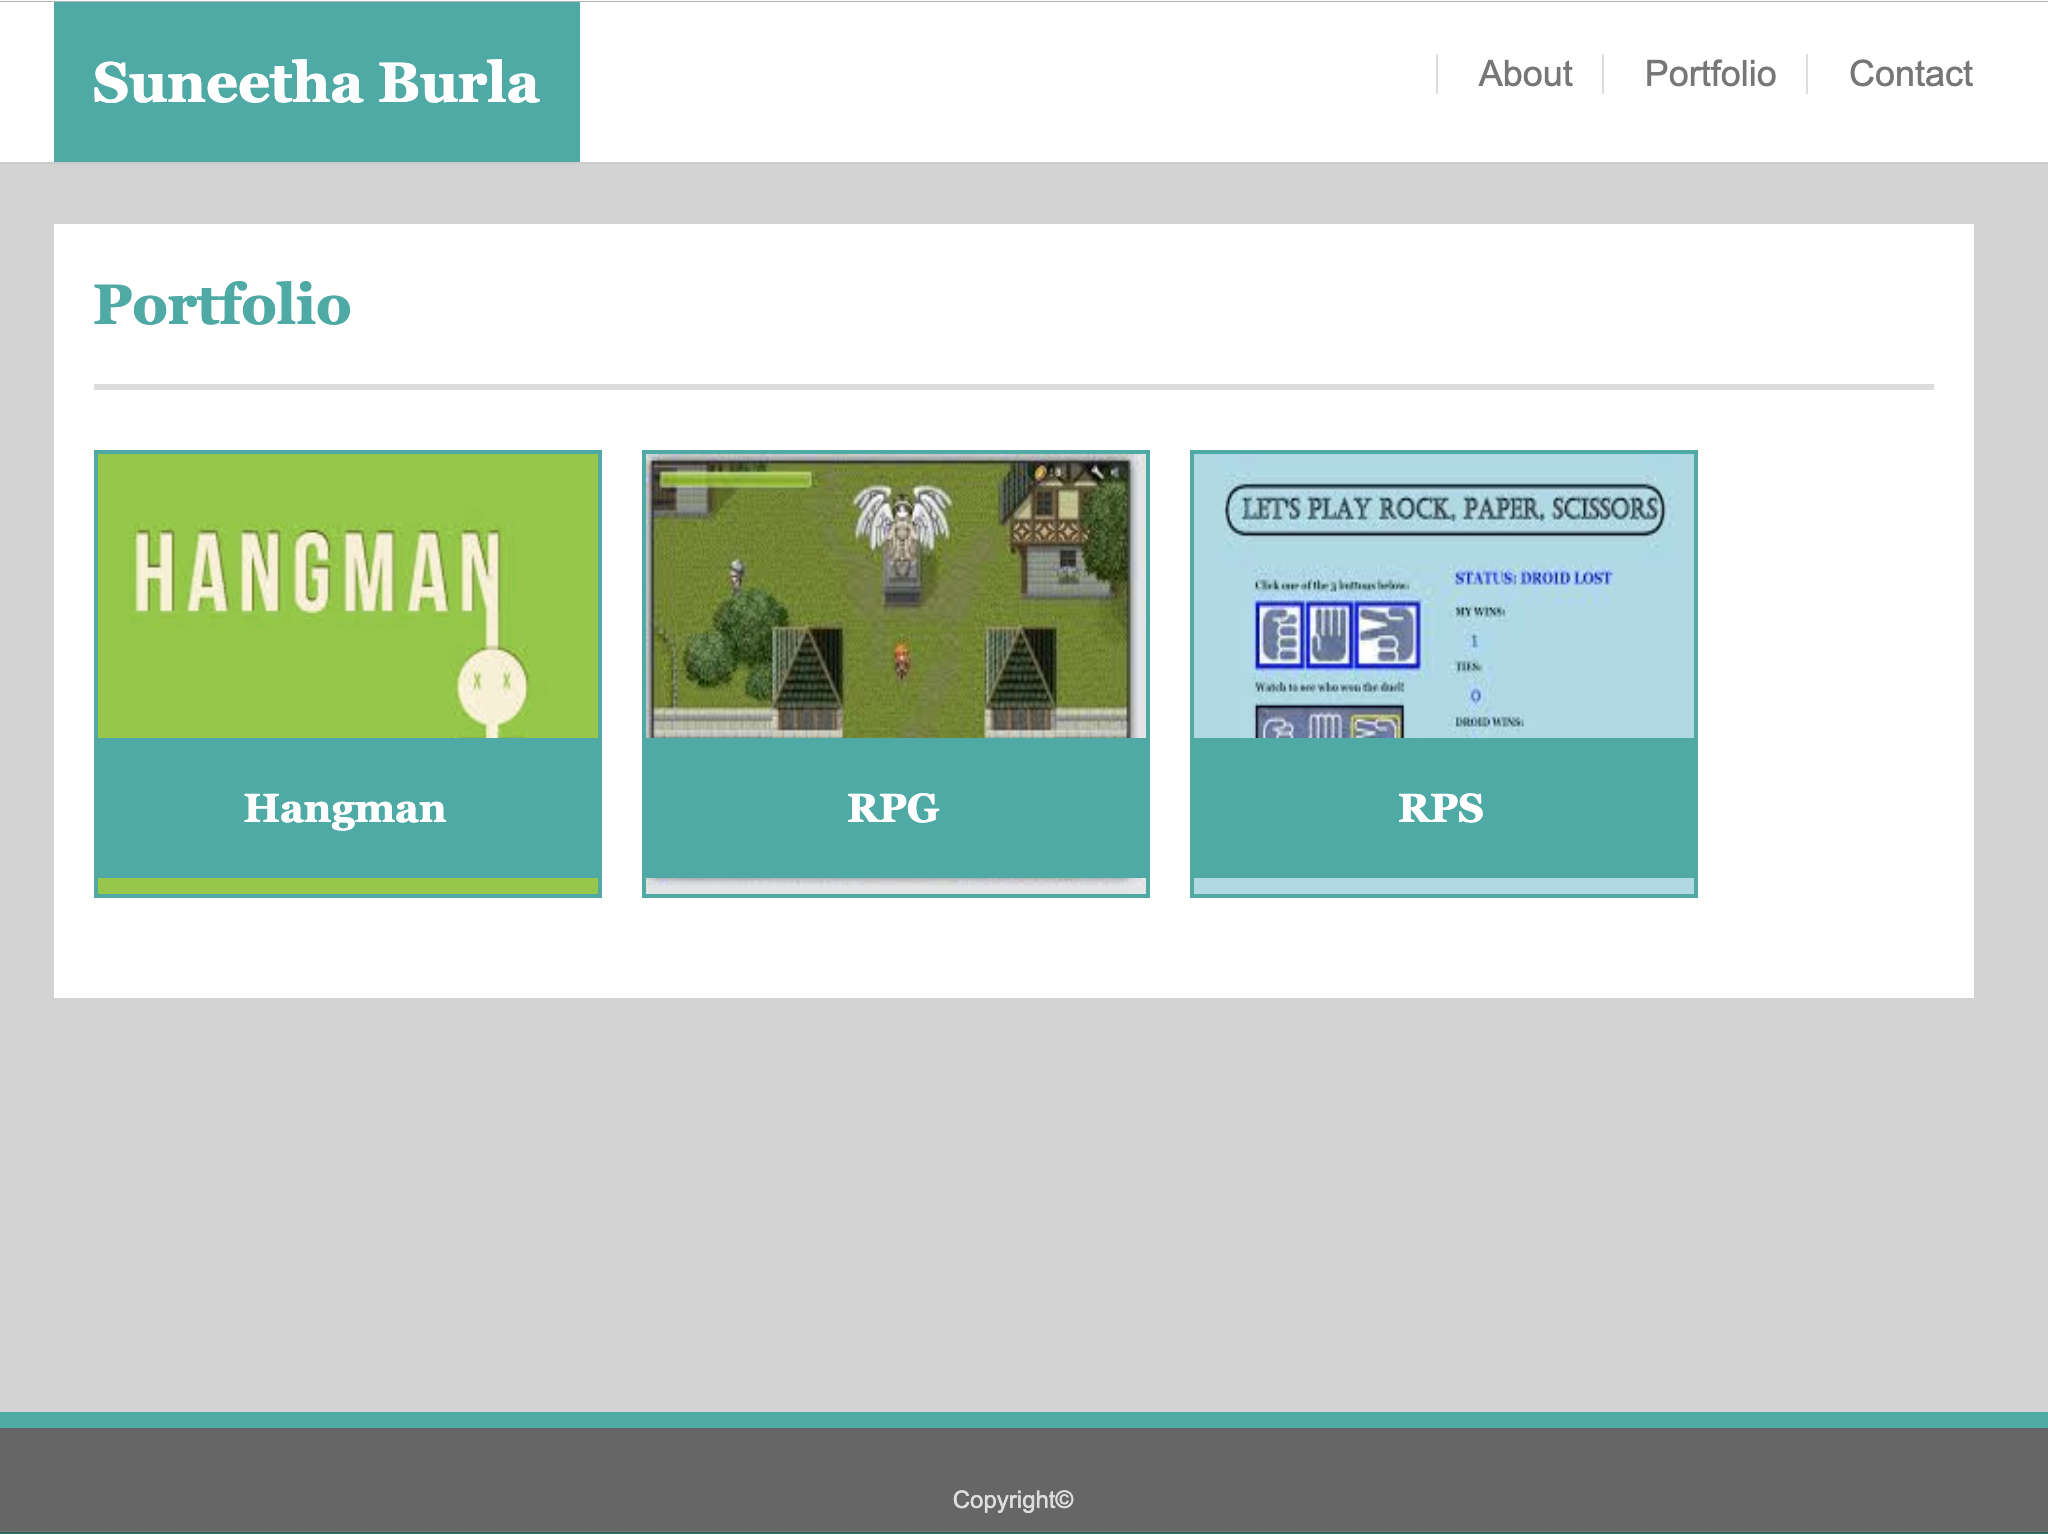
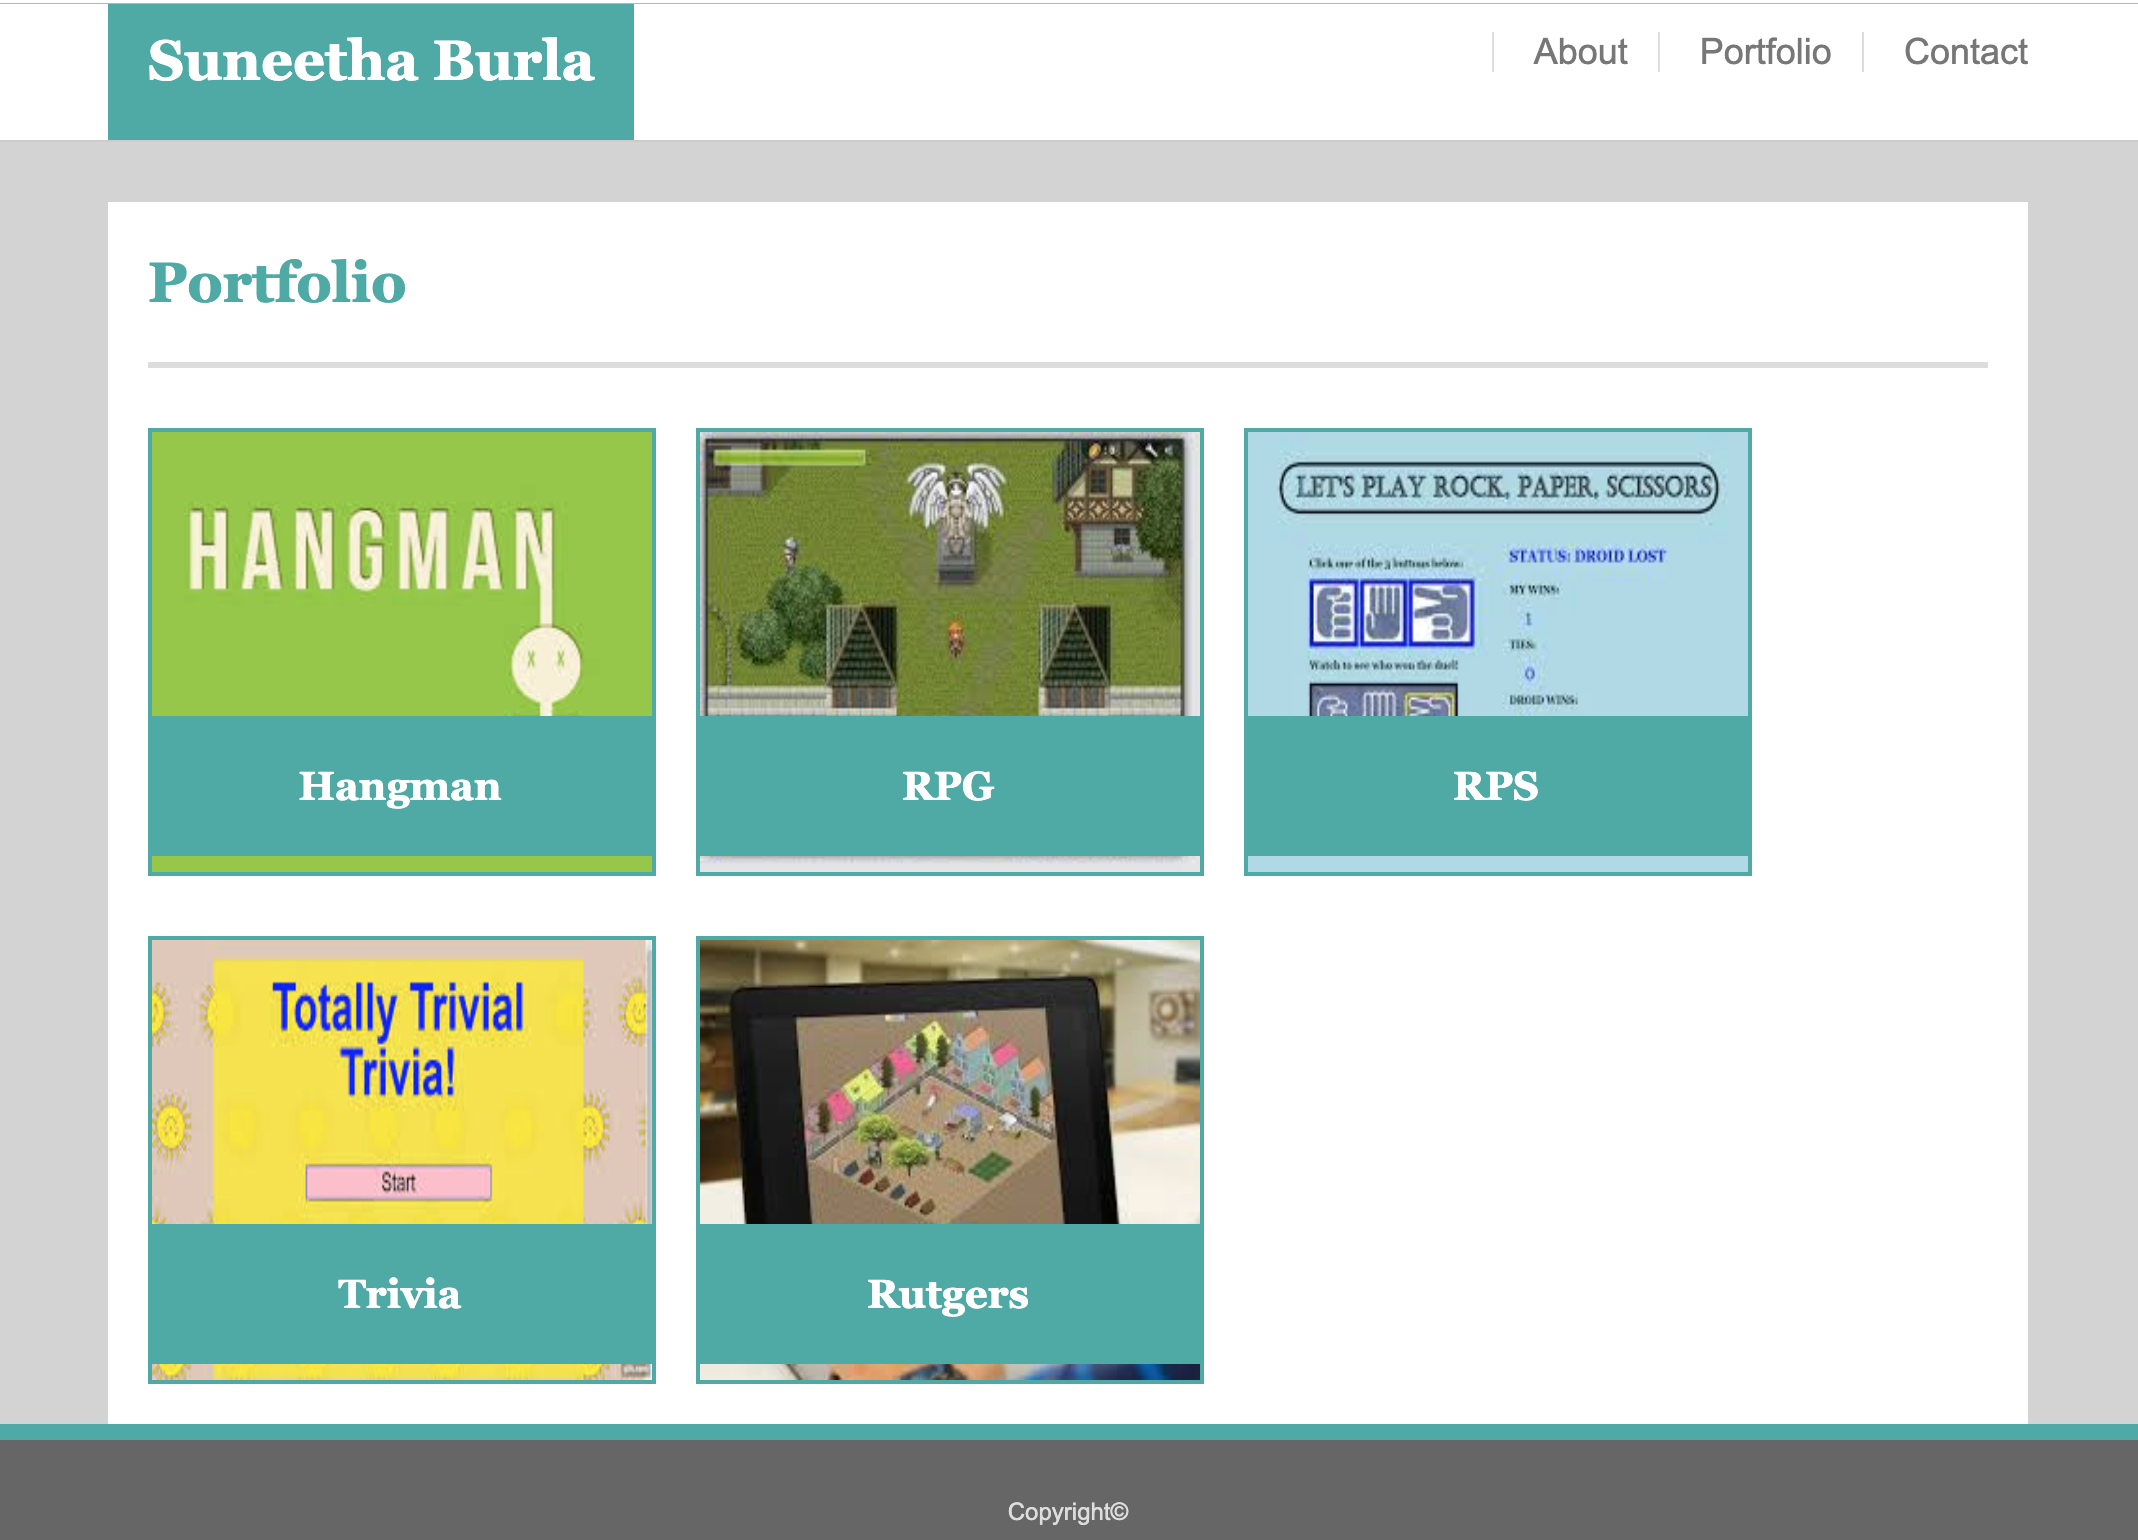
Updated readme style.css portfolio contact index html files and added portfolio image

diff --git a/portfolio.html b/portfolio.html
@@ -11,10 +11,12 @@
 <body>
     <!-- Divided mainly into two divs, header and main content -->
     <!-- Header -->
-    <!-- The Header section contains the mainlogo and the navigation links like About, Contact and Portfolio -->
+    <!-- Main Header Div -->
     <div id="mainheader">
+    <!-- Name/Mainlogo -->
         <div id="heading">
             <a href="index.html" target="#" id="mainlogo">Suneetha Burla</a>
+    <!-- Navbar links -->        
             <ul class ="nav">
                 <li><a href="index.html" target="#">About</a></li>
                 <li><a href="portfolio.html" target="_blank">Portfolio</a></li>
@@ -23,34 +25,46 @@
         </div>   
     </div>
     <!-- Main Content -->
-    <!-- This is a container which has the content heading, and the content itself-->
+    <!-- Container Div-->
     <div id="container">
+     <!-- Content Heading -->
         <div id="content-heading">
             Portfolio
         </div>
+    <!-- Content -->
         <div id="content">
             <div class="portfolio">
-            <div>
                 <a href="#" ><img class="image" src="assets/images/Hangman.jpeg">
-            </div>
-            <div class="image-title title-position">Hangman</div></a>
+                <div class="image-title">Hangman</div></a>
             </div>
             
             <div class="portfolio">
-            <div>
                 <a href="#" ><img class="image" src="assets/images/RPG.jpeg">
-            </div>
-            <div class="image-title title-position">RPG</div></a></div>
+                <div class="image-title">RPG</div></a>
             </div>
 
             <div class="portfolio">
-                <div>
-                    <a href="#" ><img class="image" src="assets/images/RPS.jpeg">
-                </div>
-                <div class="image-title title-position">RPS</div></a></div>
-                </div>
+                <a href="#" ><img class="image" src="assets/images/RPS.jpeg">
+                <div class="image-title">RPS</div></a>
+            </div>
+
+            <div class="portfolio">
+                <a href="#" ><img class="image" src="assets/images/Trivia.jpeg">
+                <div class="image-title">Trivia</div></a>
+            </div>
+
+            <div class="portfolio">
+                <a href="#" ><img class="image" src="assets/images/Rutgers.jpeg">
+                <div class="image-title">Rutgers</div></a>
+            </div>
+
         </div>
+
+
+
+        
     </div>
+    
     <!-- Footer -->
     <footer>
         <div id="footer">

diff --git a/index.html b/index.html
@@ -11,10 +11,12 @@
 <body>
     <!-- Divided mainly into two divs, header and main content -->
     <!-- Header -->
-    <!-- The Header section contains the mainlogo and the navigation links like About, Contact and Portfolio -->
+    <!-- Main Header Div -->
     <div id="mainheader">
+    <!-- Name/Mainlogo -->
         <div id="heading">
             <a href="index.html" target="#" id="mainlogo">Suneetha Burla</a>
+    <!-- Navbar links -->
             <ul class ="nav">
                 <li><a href="index.html" target="#">About</a></li>
                 <li><a href="portfolio.html" target="_blank">Portfolio</a></li>
@@ -23,7 +25,7 @@
         </div>   
     </div>
     <!-- Main Content -->
-    <!-- This is a container which has the content heading, and the content itself-->
+    <!-- Container Div-->
     <div id="container">
         <div id="content-heading">
             About Me
@@ -31,7 +33,7 @@
         <div id="content">
             <img src="assets/images/profile-pic.jpg" class="profile-img" alt="Profile-pic">
             <p>Hey there! Thank you for visiting my profile! My name is Suneetha Burla and I am a Technical Program Manager by 
-                profession and have been in the Program/Project Management for past 10 years. Besides Program Management, it's my passion and dream 
+                profession and have been in the Program/Project Management for past 12 years. Besides Program Management, it's my passion and dream 
                 to learn coding and web development. Through UC Berkely Coding Bootcamp, I aspire to become a full stack web 
                 developer and build some great looking websites!
             </p>

diff --git a/contact.html b/contact.html
@@ -11,10 +11,12 @@
 <body>
     <!-- Divided mainly into two divs, header and main content -->
     <!-- Header -->
-    <!-- The Header section contains the mainlogo and the navigation links like About, Contact and Portfolio -->
+    <!-- Main Header Div -->
     <div id="mainheader">
+    <!-- Name/Mainlogo -->
         <div id="heading">
             <a href="index.html" target="#" id="mainlogo">Suneetha Burla</a>
+    <!-- Navbar links -->
             <ul class ="nav">
                 <li><a href="index.html" target="#">About</a></li>
                 <li><a href="portfolio.html" target="_blank">Portfolio</a></li>
@@ -23,17 +25,19 @@
         </div>   
     </div>
     <!-- Main Content -->
-    <!-- This is a container which has the content heading, and the content itself-->
+    <!-- Container Div-->
     <div id="container">
+    <!-- Content Heading -->
         <div id="content-heading">
             Contact
         </div>
+    <!-- Content -->
         <div id="content">
             <form>
                 <p>Name</p>
-                <input type="text" class= "textbox" placeholder="John Smith">
+                <input type="text" class= "textbox" placeholder="Suneetha Burla">
                 <p>Email</p>
-                <input type="email" class= "textbox" placeholder="example@gmail.com">
+                <input type="email" class= "textbox" placeholder="suneetha@gmail.com">
                 <p>Message</p>
                 <textarea class="textarea"> 
                 </textarea>

diff --git a/assets/css/style.css b/assets/css/style.css
@@ -116,20 +116,18 @@ display: inline-block;
     float: left; 
     border: 2px solid teal;
     position: relative;
-
 }
-.img span {
-    position:absolute;
-    top:10px;
 
-}
 .image {
     margin: 0px 20px 20px 0;
     max-width: 250px;
     height: 220px;
     border: 2px solid #4aaaa5;
 }
-
+.portfolio {
+    position:relative;
+    float: left;
+}
 .image-title {
     width: 222px;
     background-color: #4aaaa5;
@@ -142,15 +140,6 @@ display: inline-block;
     padding: 15px;
     text-decoration: none;
     text-align: center;
-}
-.portfolio {
-    position:relative;
-    float: left;
-}
-.title-position {
     position:absolute;
     bottom:40px;
 }
-
-/* can we use same ID in different html files */
-/* How to update the old https://suneethaburla.github.io/ */

diff --git a/README.md b/README.md
@@ -2,7 +2,7 @@
 This is Suneetha Burla's basic portfolio webpage.
 ## Project Title: Suneetha Burla's Basic Portfolio
 ## Project Description
-This project describes how to build a professional portfolio site using HTML and CSS. The end product of this project is a portfolio site which has links to direct users to basic information page about the developer, a portfolio page which contains the links to different project and repositories and a contact page for the users to fill in and submit their contact information.
+This project describes how to build a professional portfolio site using HTML and CSS. The end product of this project is a portfolio site which has links to direct users to basic information page about the developer, a portfolio page which contains the links to different projects and repositories and a contact page for the users to fill in and submit their contact information.
 ## Installation
 In order to install this project, follow the instructions below.
 * Prerequisites
